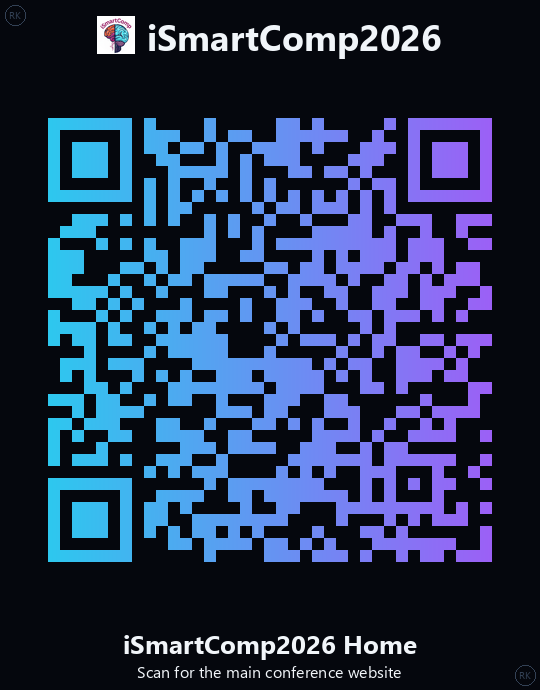
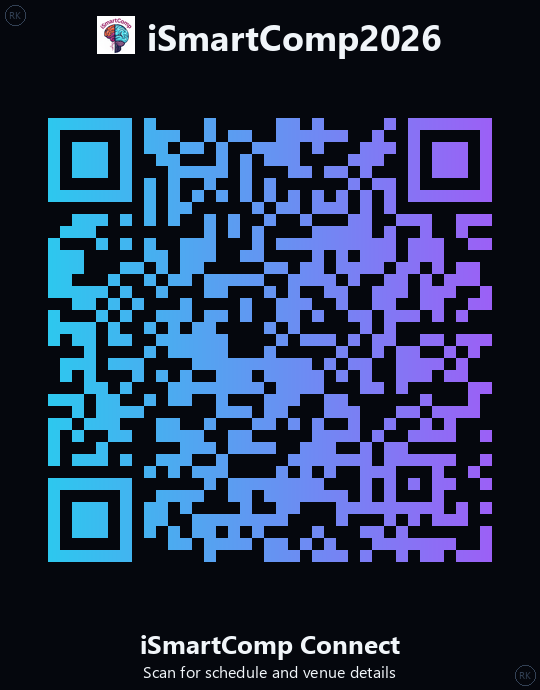
Update homepage QR code text description

Changed region(s): [[0.2074, 0.913, 0.7704, 1.0]]

diff --git a/scripts/generate_qr.py b/scripts/generate_qr.py
@@ -152,6 +152,6 @@ print("================================")
 
 # Generate Homepage QR code
 home_url = "https://kr9793.github.io/iSmartCompConnect/"
-create_labeled_qr(home_url, "iSmartComp2026 Home", "QR_Homepage.png", "Scan for the main conference website")
+create_labeled_qr(home_url, "iSmartComp Connect", "QR_Homepage.png", "Scan for schedule and venue details")
 print(f"\nCreated: QR_Homepage.png")
 print(f"URL:     {home_url}")
